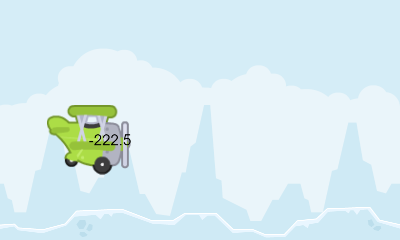
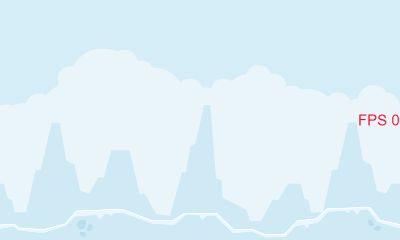
text

Changed region(s): [[0.12, 0.4375, 0.33, 0.7292], [0.9, 0.4667, 1.0, 0.525]]

diff --git a/loop/engine/GameObject.js b/loop/engine/GameObject.js
@@ -4,11 +4,11 @@ class GameObject {
         //  this.actor = actor;
         this.sleeping = actor.sleeping;
         this.container = new Container(actor);
-        this.rule = new Rule(actor);
+        if (actor.scriptList.length > 0) this.rule = new Rule(actor);
         this.previousState = { x: actor.x, y: actor.y, angle: actor.angle, tilePositionX: 0, tilePositionY: 0 };
     }
 
-    update(deltaTime, scope) { // logic update
+    fixedUpdate(deltaTime, scope) { // logic update
         if (!this.sleeping) {
             // store previous state
             this.previousState = {
@@ -20,9 +20,13 @@ class GameObject {
             if (this.scrollX != 0) this.container.sprite.tilePosition.x += this.scrollX * deltaTime;
             if (this.scrollY != 0) this.container.sprite.tilePosition.y += this.scrollY * deltaTime;
             // update text
-            if (this.textOn) this.text = math.print(this.container.text.expression,scope,{notation: 'fixed', precision:1 });4
+            if (this.textOn) {
+                this.text = math.print(this.container.text.expression, scope);
+                if (this.align == "left") this.container.text.position.x -= (this.width / 2 - this.container.text.width / 2) + this.offsetX;
+                if (this.align == "right") this.container.text.position.x -= (-this.width / 2 + this.container.text.width / 2) + this.offsetX;
+            }
             // update logic
-            this.rule.code.eval(scope);
+            if (this.rule) this.rule.code.eval(scope);
         }
     }
 
@@ -37,7 +41,7 @@ class GameObject {
     }
 
     // access to GameObject properties
-    get x() { return this.container.x };
+    get x() { return this.container.x.toFixed(0) };
     set x(value) { this.container.x = value };
 
     get y() { return this.container.y };
@@ -100,10 +104,10 @@ class GameObject {
     };
 
     get textOn() { return this.container.text.visible };
-    set textOn(value) { this.container.text.visible = value }; 
+    set textOn(value) { this.container.text.visible = value };
 
     get text() { return this.container.text.text };
-    set text(value) { this.container.text.text = value ;};
+    set text(value) { this.container.text.text = value };
 
     get font() { return this.container.text.style.fontFamily };
     set font(value) { this.container.text.style.fontFamily = value };

diff --git a/loop/engine/Engine.js b/loop/engine/Engine.js
@@ -1,10 +1,10 @@
 class Engine {
 
     constructor(gameModel) {
-        this.fps = 30;
+        this.fps = 100;
         this.currentTime;
         this.accumulator = 0.0;
-        this.dt = 1.0 / this.fps;
+        this.dt = 1000/ this.fps;
         this.t = 0.0;
         this.frameTime=0.0;
 
@@ -13,7 +13,7 @@ class Engine {
         this.logic = new Logic(this.gameObjects, this.scope);
 
         window.requestAnimationFrame(this.gameLoop.bind(this));
-        this.fpsText = document.getElementById("fps");
+       // this.fpsText = document.getElementById("fps");
     }
 
     gameLoop(newTime) {
@@ -23,12 +23,15 @@ class Engine {
             if (this.frameTime > 250) this.frameTime = 250;
             this.accumulator += this.frameTime;
             while (this.accumulator >= this.dt) {
-                this.fpsText.innerHTML = (1000 / this.frameTime).toFixed(1) + " fps " + this.fps + " ffps " + (this.t / 1000).toFixed(2) + " sec";
-                this.logic.update(this.dt / 1000);
+              //  this.fpsText.innerHTML = (1000 / this.frameTime).toFixed(1) + " fps " + this.fps + " ffps " + (this.t / 1000).toFixed(2) + " sec";
+                this.logic.fixedUpdate(this.dt / 1000);
                 this.t += this.dt;
                 this.accumulator -= this.dt;
             }
             this.render.integrate(this.accumulator / this.dt);
+            // update Game's properties
+            this.scope["Game"].FPS = (1000/this.frameTime).toFixed(0);
+            this.scope["Game"].deltaTime = (this.frameTime /1000).toFixed(3);
         }
         this.currentTime = newTime;
     }

diff --git a/loop/engine/Text.js b/loop/engine/Text.js
@@ -15,17 +15,23 @@ class Text {
             wordWrapWidth: actor.width,
             padding: actor.width
         });
-    
+
         var text = new PIXI.Text(textExpression, style);
         text.visible = actor.textOn;
+        text.anchor.set(0.5);
+        var pivot = { x: 0, y: 0 };
         switch (actor.align) {
-            case "Left": text.anchor.set(1.0,0.5); break;
-            case "Right": text.anchor.set(0.0,0.5); break;
-            case "Center": text.anchor.set(0.5,0.5); break;
+            case "Left": pivot.x = - actor.width / 2 + text.width / 2; break;
+            case "Right": pivot.x =  actor.width / 2 - text.width / 2; break;
         }
-        text.position = { x: actor.offsetX, y: actor.offsetY };
+        text.position = { x: pivot.x + actor.offsetX, y: pivot.y + actor.offsetY };
         text.scale.y = -1;
         text.expression = textExpression;
         return (text);
+    }
+
+    set position(value){
+        console.log("value ", value.width);
+
     }
 }

diff --git a/loop/editor/canvas/displayActor.js b/loop/editor/canvas/displayActor.js
@@ -50,12 +50,13 @@ class DisplayActor extends PIXI.Container {
         });
         var newText = this.convertText(actor.text, actor, cast, game);
         const text = new PIXI.Text(newText, style);
+        text.anchor.set(0.5);
+        var pivot = { x: 0, y: 0 };
         switch (actor.align) {
-            case "Left": text.anchor.set(1.0,0.5); break;
-            case "Right": text.anchor.set(0.0,0.5); break;
-            case "Center": text.anchor.set(0.5,0.5); break;
+            case "Left": pivot.x = - actor.width / 2 + text.width / 2; break;
+            case "Right": pivot.x =  actor.width / 2 - text.width / 2; break;
         }
-        text.position = { x: actor.offsetX, y: actor.offsetY };
+        text.position = { x: pivot.x + actor.offsetX, y: pivot.y + actor.offsetY };
         text.scale.y = -1;
         this.addChild(text);
     }

diff --git a/loop/engine/Rule.js b/loop/engine/Rule.js
@@ -2,8 +2,7 @@ class Rule {
 
     constructor(actor) {
         this.actorName = actor.name;
-        this.expression = "";
-        if (actor.scriptList.length > 0) this.parseScripts(actor.scriptList);
+        this.parseScripts(actor.scriptList);
         console.log(this.expression);
         this.code = math.compile(this.expression);
     }

diff --git a/loop/engine/Logic.js b/loop/engine/Logic.js
@@ -5,9 +5,9 @@ class Logic {
         this.scope = scope;
     }
 
-    update(deltaTime) {
+    fixedUpdate(deltaTime) {
         this.gameObjects.forEach(gameObject => {
-            gameObject.update(deltaTime,this.scope);
+            gameObject.fixedUpdate(deltaTime,this.scope);
         })
     }
 }

diff --git a/loop/engine/index.php b/loop/engine/index.php
@@ -26,7 +26,7 @@
 		</style>
 	
 		<title>Gamesonomy Engine</title>
-		<span id="fps" style="display:flex;justify-content: center;align-items: center;color:white;font-size:36px;font-family:'Lato'">--</span>
+		<!--span id="fps" style="display:flex;justify-content: center;align-items: center;color:white;font-size:36px;font-family:'Lato'">--</span-->
 
 	</head>
 	
